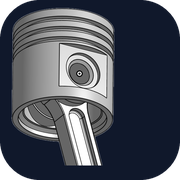
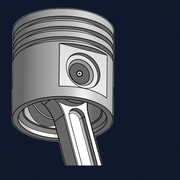
Add files via upload

diff --git a/script.js b/script.js
@@ -27,6 +27,55 @@ document.addEventListener("DOMContentLoaded", () => {
   revealEls.forEach((el) => observer.observe(el));
 });
 
+// Smooth in-page scrolling with a slower, custom-eased motion.
+// The browser's built-in `scroll-behavior: smooth` is fixed-speed and feels
+// snappy/abrupt on longer jumps, so this intercepts anchor clicks and
+// animates the scroll manually with an eased curve instead.
+document.addEventListener("DOMContentLoaded", () => {
+  const prefersReducedMotion = window.matchMedia("(prefers-reduced-motion: reduce)").matches;
+  const nav = document.querySelector(".nav");
+
+  function easeOutCubic(t) {
+    return 1 - Math.pow(1 - t, 3);
+  }
+
+  function smoothScrollTo(targetY, duration) {
+    const startY = window.scrollY;
+    const diff = targetY - startY;
+    let startTime = null;
+
+    function step(timestamp) {
+      if (startTime === null) startTime = timestamp;
+      const elapsed = timestamp - startTime;
+      const progress = Math.min(elapsed / duration, 1);
+      window.scrollTo(0, startY + diff * easeOutCubic(progress));
+      if (progress < 1) requestAnimationFrame(step);
+    }
+
+    requestAnimationFrame(step);
+  }
+
+  document.querySelectorAll('a[href^="#"]').forEach((link) => {
+    link.addEventListener("click", (e) => {
+      const id = link.getAttribute("href").slice(1);
+      if (!id) return;
+      const target = document.getElementById(id);
+      if (!target) return;
+
+      e.preventDefault();
+      const navHeight = nav ? nav.offsetHeight : 0;
+      const targetY = target.getBoundingClientRect().top + window.scrollY - navHeight - 12;
+
+      if (prefersReducedMotion) {
+        window.scrollTo(0, targetY);
+      } else {
+        smoothScrollTo(targetY, 700);
+      }
+      history.pushState(null, "", "#" + id);
+    });
+  });
+});
+
 // Contact form -> Formspree
 //
 // SETUP (one-time):
